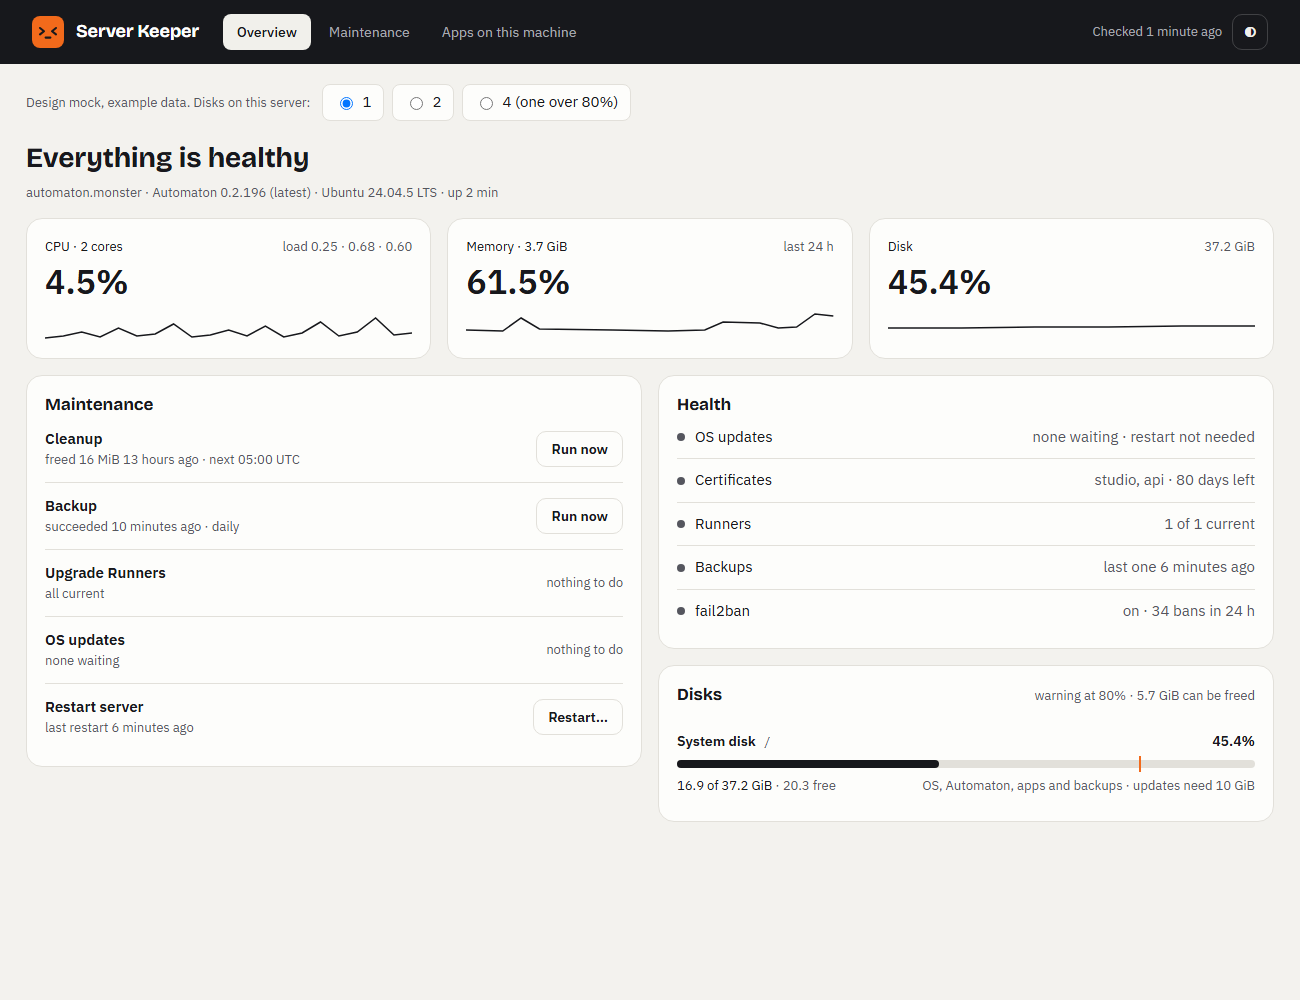
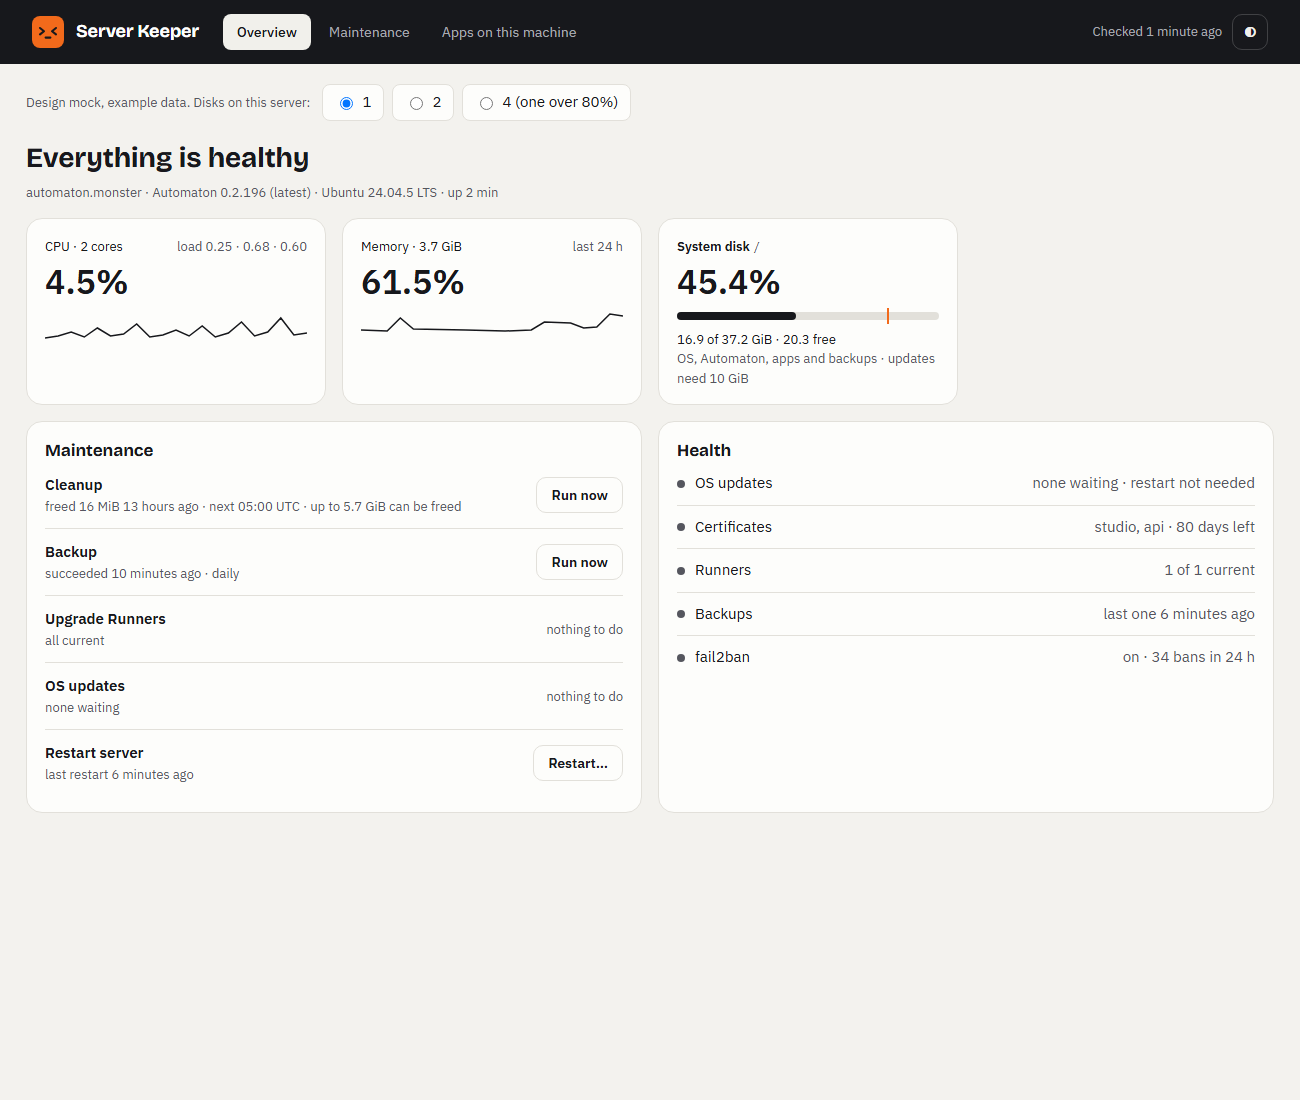
Disks layout option A: one tile per disk

diff --git a/docs/design/mocks/server-keeper-disks-layout.html b/docs/design/mocks/server-keeper-disks-layout.html
@@ -367,6 +367,18 @@ body{background:var(--bg)}
 .disk__pct{grid-area:pct}.bar{grid-area:bar;margin:4px 0}.disk__size{grid-area:size;font-size:13px}.disk__holds{grid-area:holds;text-align:right;overflow:hidden;text-overflow:ellipsis;white-space:nowrap}
 .disks .a-card__head+div .disk:first-child{border-top:0}
 @media (max-width:860px){.lower{grid-template-columns:1fr}}
+
+/* v5 (option A): every disk is a tile like CPU and Memory; tiles wrap; Health and Maintenance share one row height. */
+.tiles{display:grid;grid-template-columns:repeat(auto-fill,minmax(240px,1fr));gap:16px}
+.tile{min-height:168px}
+.tile__head code{font:400 12px var(--mono,monospace);color:var(--muted)}
+.tile__foot{font-size:13px;font-variant-numeric:tabular-nums;margin-top:auto}
+.tile .bar{margin:6px 0 4px}
+.tile--warn{border-color:color-mix(in srgb,var(--orange) 45%,var(--border))}
+.tile--warn .tile__value{color:var(--orange-ink)}
+.tile--warn .bar i{background:var(--orange)}
+.lower{display:grid;grid-template-columns:minmax(0,1fr) minmax(0,1fr);gap:16px;align-items:stretch}
+@media (max-width:860px){.lower{grid-template-columns:1fr}}
 </style>
 <header class="a-topbar">
   <div class="a-topbar__inner">
@@ -406,7 +418,7 @@ body{background:var(--bg)}
     <div><b>Backups disk is 86% full.</b> 13.8 of 16 GiB used. Delete old backups or move them off-site; Server Keeper warns at 80%.</div>
   </div>
 
-  <div class="tiles">
+  <div class="tiles" id="tiles">
     <div class="a-card tile">
       <div class="tile__head"><span>CPU · 2 cores</span><span class="a-muted">load 0.25 · 0.68 · 0.60</span></div>
       <div class="tile__value">4.5%</div>
@@ -417,25 +429,19 @@ body{background:var(--bg)}
       <div class="tile__value">61.5%</div>
       <svg class="spark" viewBox="0 0 200 36" preserveAspectRatio="none" aria-hidden="true"><polyline points="0,24 20,25 30,12 40,23 80,24 110,25 130,24 140,16 160,17 170,22 180,21 190,8 200,10"/></svg>
     </div>
-    <div class="a-card tile" id="disk-tile">
-      <div class="tile__head"><span id="dt-label">Disk · fullest of 2</span><span class="a-muted" id="dt-name">System disk</span></div>
-      <div class="tile__value" id="dt-value">45.5%</div>
-      <svg class="spark" viewBox="0 0 200 36" preserveAspectRatio="none" aria-hidden="true"><polyline id="dt-spark" points="0,22 40,22 80,21 120,21 160,20 200,20"/></svg>
-    </div>
   </div>
 
 
   <div class="lower">
     <section class="a-card" aria-labelledby="mt">
       <h3 class="a-card__title" id="mt">Maintenance</h3>
-      <div class="mrow"><div><b>Cleanup</b><div class="a-muted small">freed 16 MiB 13 hours ago · next 05:00 UTC</div></div><button class="a-btn" type="button">Run now</button></div>
+      <div class="mrow"><div><b>Cleanup</b><div class="a-muted small">freed 16 MiB 13 hours ago · next 05:00 UTC · up to 5.7 GiB can be freed</div></div><button class="a-btn" type="button">Run now</button></div>
       <div class="mrow"><div><b>Backup</b><div class="a-muted small">succeeded 10 minutes ago · daily</div></div><button class="a-btn" type="button">Run now</button></div>
       <div class="mrow"><div><b>Upgrade Runners</b><div class="a-muted small">all current</div></div><span class="a-muted small">nothing to do</span></div>
       <div class="mrow"><div><b>OS updates</b><div class="a-muted small">none waiting</div></div><span class="a-muted small">nothing to do</span></div>
       <div class="mrow"><div><b>Restart server</b><div class="a-muted small">last restart 6 minutes ago</div></div><button class="a-btn" type="button">Restart&hellip;</button></div>
     </section>
-    <div class="side">
-      <section class="a-card" aria-labelledby="ht">
+    <section class="a-card" aria-labelledby="ht">
         <h3 class="a-card__title" id="ht">Health</h3>
         <div class="hrow"><span class="dot"></span>OS updates<span class="a-muted">none waiting · restart not needed</span></div>
         <div class="hrow"><span class="dot"></span>Certificates<span class="a-muted">studio, api · 80 days left</span></div>
@@ -443,12 +449,6 @@ body{background:var(--bg)}
         <div class="hrow"><span class="dot"></span>Backups<span class="a-muted">last one 6 minutes ago</span></div>
         <div class="hrow"><span class="dot"></span>fail2ban<span class="a-muted">on · 34 bans in 24 h</span></div>
       </section>
-      <section class="a-card disks" aria-labelledby="disks-title">
-        <div class="a-card__head"><h3 class="a-card__title" id="disks-title">Disks</h3><span class="a-muted small">warning at 80% · 5.7 GiB can be freed</span></div>
-        <div id="disk-rows"></div>
-        <button type="button" class="a-btn more" id="more" hidden></button>
-      </section>
-    </div>
   </div>
 </main>
 <script>
@@ -464,29 +464,19 @@ body{background:var(--bg)}
   };
   function esc(s){return String(s).replace(/[&<>"]/g,function(c){return{"&":"&amp;","<":"&lt;",">":"&gt;","\"":"&quot;"}[c];});}
   function render(k){
-    var d=ALL[k], rows="", top=null;
+    var d=ALL[k], html="", top=null, warnN=0;
+    [].slice.call(document.querySelectorAll('.tile--disk')).forEach(function(e){e.remove();});
     d.forEach(function(x){
-      var p=x.u/x.t*100, warn=p>=80, free=(x.t-x.u);
-      if(!top||p>top.p) top={x:x,p:p};
-      rows+='<div class="disk'+(warn?' disk--warn':'')+'">'+
-        '<div class="disk__name"><b>'+esc(x.n)+'</b><code>'+esc(x.m)+'</code></div>'+
-        '<div class="disk__pct">'+p.toFixed(1)+'%</div>'+
+      var p=x.u/x.t*100, warn=p>=80, free=x.t-x.u; if(warn) warnN++;
+      html+='<div class="a-card tile tile--disk'+(warn?' tile--warn':'')+'">'+
+        '<div class="tile__head"><span><b>'+esc(x.n)+'</b> <code>'+esc(x.m)+'</code></span>'+(warn?'<span class="a-pill a-pill--warning">over 80%</span>':'')+'</div>'+
+        '<div class="tile__value">'+p.toFixed(1)+'%</div>'+
         '<div class="bar" role="img" aria-label="'+p.toFixed(0)+'% used'+(warn?', over the 80% warning':'')+'"><i style="width:'+p.toFixed(1)+'%"></i><b></b></div>'+
-        '<div class="disk__size">'+x.u.toFixed(1)+' of '+x.t.toFixed(1)+' GiB <span>· '+free.toFixed(1)+' free</span></div>'+
-        '<div class="disk__holds">'+esc(x.h)+'</div></div>';
+        '<div class="tile__foot">'+x.u.toFixed(1)+' of '+x.t.toFixed(1)+' GiB · '+free.toFixed(1)+' free<br><span class="a-muted">'+esc(x.h)+'</span></div></div>';
     });
-    document.getElementById('disk-rows').innerHTML=rows;
-    var els=[].slice.call(document.querySelectorAll('#disk-rows .disk')), more=document.getElementById('more'), extra=0;
-    els.forEach(function(e,i){ if(i>=3 && !e.classList.contains('disk--warn')){e.hidden=true;extra++;} });
-    more.hidden=!extra; more.textContent='Show '+extra+' more disk'+(extra>1?'s':'');
-    more.onclick=function(){els.forEach(function(e){e.hidden=false;});more.hidden=true;};
-    var warn=top.p>=80;
-    document.getElementById('dt-label').textContent=d.length===1?'Disk':'Disk · fullest of '+d.length;
-    document.getElementById('dt-name').textContent=d.length===1?top.x.t.toFixed(1)+' GiB':top.x.n;
-    document.getElementById('dt-value').textContent=top.p.toFixed(1)+'%';
-    document.getElementById('disk-tile').classList.toggle('tile--warn',warn);
-    document.getElementById('needs').hidden=!warn;
-    document.getElementById('hl-title').textContent=warn?'1 thing needs you':'Everything is healthy';
+    document.getElementById('tiles').insertAdjacentHTML('beforeend',html);
+    document.getElementById('needs').hidden=!warnN;
+    document.getElementById('hl-title').textContent=warnN?'1 thing needs you':'Everything is healthy';
   }
   ['n1','n2','n4'].forEach(function(id){document.getElementById(id).addEventListener('change',function(e){render(e.target.value);});});
   var h=location.hash.slice(1); if(h==='disks-1'||h==='disks-4'){document.getElementById('n'+h.slice(-1)).checked=true;render(h.slice(-1));} else render('2');
